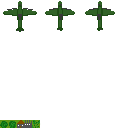
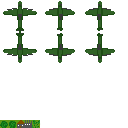
Working enemies and projectiles

Changed region(s): [[0.0, 0.25, 0.3125, 0.5], [0.6562, 0.25, 0.9062, 0.5], [0.3438, 0.25, 0.5938, 0.5]]

diff --git a/Maekfile.js b/Maekfile.js
@@ -119,6 +119,7 @@ const game_objs = [
 	maek.CPP('ITickable.cpp'),
 	maek.CPP('Entity.cpp'),
 	maek.CPP('Projectile.cpp'),
+	maek.CPP('EnemyPlane.cpp'),
 	maek.CPP('Collision.cpp')
 ];
 

diff --git a/EnemyPlane.cpp b/EnemyPlane.cpp
@@ -1,0 +1,52 @@
+#include "EnemyPlane.hpp"
+
+EnemyPlane::EnemyPlane(){
+	planeGroup = SpriteGroup({
+				SpriteGroup::IntPair(2, 11),
+				SpriteGroup::IntPair(2, 10),
+				SpriteGroup::IntPair(2, 9),
+				SpriteGroup::IntPair(2, 8),
+				SpriteGroup::IntPair(0, 9),
+				SpriteGroup::IntPair(1, 9),
+				SpriteGroup::IntPair(3, 9),
+				SpriteGroup::IntPair(4, 9),
+			},
+			SpriteGroup::IntPair(2, 11)
+			);
+	layer = ICollidable::ENEMY;
+	position = glm::vec2(100, 200);
+	velocity = glm::vec2(0, 0);
+	isAlive = true;
+}
+
+Rect EnemyPlane::GetRect(){
+	return Rect(position + glm::vec2(-16.0f, -32.0f), position + glm::vec2(24.0f, 8.0f));
+}
+
+void EnemyPlane::Tick(float elapsed){
+	if(!isAlive)
+		return;
+
+	time += elapsed;
+	velocity = glm::vec2(std::sin(time), 0) * 30.0f;
+
+	position += velocity * elapsed;
+
+	if(velocity.x > 0){
+		planeGroup.SetOffset(5);
+	}else if(velocity.x < 0){
+		planeGroup.SetOffset(10);
+	}else if(velocity.x == 0){
+		planeGroup.SetOffset(0);
+	}
+
+	planeGroup.DrawAt(position);
+}
+
+void EnemyPlane::OnCollisionEnter(Collision coll){
+	printf("something entered\n");
+	if(isAlive && coll.collider->layer == ICollidable::LAYER::PLAYER){
+		planeGroup.Hide();
+		isAlive = false;
+	}
+}

diff --git a/SpriteGroup.cpp b/SpriteGroup.cpp
@@ -2,6 +2,13 @@
 
 #include "PlayMode.hpp"
 
+void SpriteGroup::Hide(){
+	for(int i = 0; i < sprites.size(); i++){
+		sprites[i].first->x =0;
+		sprites[i].first->y = PPU466::ScreenHeight;
+	}
+}
+
 SpriteGroup::SpriteGroup(std::vector<std::pair<uint8_t, uint8_t>> tileCoords, std::pair<uint8_t, uint8_t> anchorPoint) : tileCoords(tileCoords), sprites(), anchorPoint(anchorPoint), offset(0)  {
 	for(auto it = tileCoords.begin(); it < tileCoords.end(); it++){
 		PPU466::Sprite *sprite = PlayMode::Instance->assetManager->getNextSprite();
@@ -17,6 +24,12 @@ SpriteGroup::SpriteGroup(std::vector<std::pair<uint8_t, uint8_t>> tileCoords, st
 void SpriteGroup::OverridePallette(uint8_t pallette){
 	for(auto it = sprites.begin(); it < sprites.end(); it++){
 		it->first->attributes = pallette;
+	}
+}
+
+void SpriteGroup::ResetPallette(){
+	for(auto it = sprites.begin(); it < sprites.end(); it++){
+		it->first->attributes = it->second;
 	}
 }
 

diff --git a/PlayMode.cpp b/PlayMode.cpp
@@ -53,6 +53,10 @@ PlayMode::PlayMode() {
 		projectiles[i] = new Projectile();
 	}
 
+	for(int i = 0; i < enemyPlanes.size(); i++){
+		enemyPlanes[i] = new EnemyPlane();
+	}
+
 	/* Enemy *enemy = new Enemy( */
 	/* 		enemyTile, */
 	/* 		0, */
@@ -144,7 +148,7 @@ void PlayMode::update(float elapsed) {
 
 	for(auto it = colliders.begin(); it < colliders.end(); it++){
 		for(auto it2 = colliders.begin(); it2 < colliders.end(); it2++){
-			if(it != it2){
+			if((*it)->layer != (*it2)->layer){
 				(*it)->CheckCollision(*it2);
 			}
 		}

diff --git a/EnemyPlane.hpp b/EnemyPlane.hpp
@@ -1,9 +1,19 @@
 #include "ICollidable.hpp"
 #include "ITickable.hpp"
 #include "Entity.hpp"
+#include "SpriteGroup.hpp"
 
 struct EnemyPlane : ICollidable, ITickable, Entity {
 	EnemyPlane();
 
+	virtual void Tick(float elapsed) override;
+	virtual void OnCollisionEnter(Collision coll) override;
+	virtual Rect GetRect() override;
 	
+	private:
+		SpriteGroup planeGroup;
+		glm::vec2 position;
+		glm::vec2 velocity;
+		float time = 0;
+		bool isAlive = false;
 };

diff --git a/Projectile.hpp b/Projectile.hpp
@@ -11,6 +11,7 @@ struct Projectile : Entity, ICollidable, ITickable {
 	virtual void FireAt(glm::vec2 position, glm::vec2 direction, float speed, ICollidable::LAYER layer);
 	virtual void OnCollisionEnter(Collision coll) override;
 	virtual void Tick(float e) override;
+	virtual Rect GetRect() override;
 
 	private:
 		PPU466::Sprite *bullet;

diff --git a/PlayMode.hpp b/PlayMode.hpp
@@ -14,6 +14,7 @@
 #include "ICollidable.hpp"
 
 #include "Projectile.hpp"
+#include "EnemyPlane.hpp"
 
 #include "Entity.hpp"
 
@@ -51,5 +52,6 @@ struct PlayMode : Mode {
 	std::vector<ICollidable*> colliders;
 	size_t nextProjectileIdx = 0;
 	std::array<Projectile*, 4> projectiles;
+	std::array<EnemyPlane*, 2> enemyPlanes;
 	Ball *ball;
 };

diff --git a/Projectile.cpp b/Projectile.cpp
@@ -17,6 +17,10 @@ Projectile::Projectile(
 	isExplosionOver = true;
 }
 
+Rect Projectile::GetRect(){
+	return Rect(position, position + glm::vec2(8,8));
+}
+
 void Projectile::FireAt(glm::vec2 _position, glm::vec2 _direction, float _speed, ICollidable::LAYER _layer){
 	isExplosionOver = false;
 	timeSinceFire = 0.0f;

diff --git a/SpriteGroup.hpp b/SpriteGroup.hpp
@@ -18,6 +18,8 @@ struct SpriteGroup{
 
 	void DrawAt(glm::vec2 position);
 	void SetOffset(uint8_t offset);
+	void Hide();
+	void ResetPallette();
 
 	static intPair IntPair(int i, int j) {
 		return intPair(uint8_t(i), uint8_t(j));
